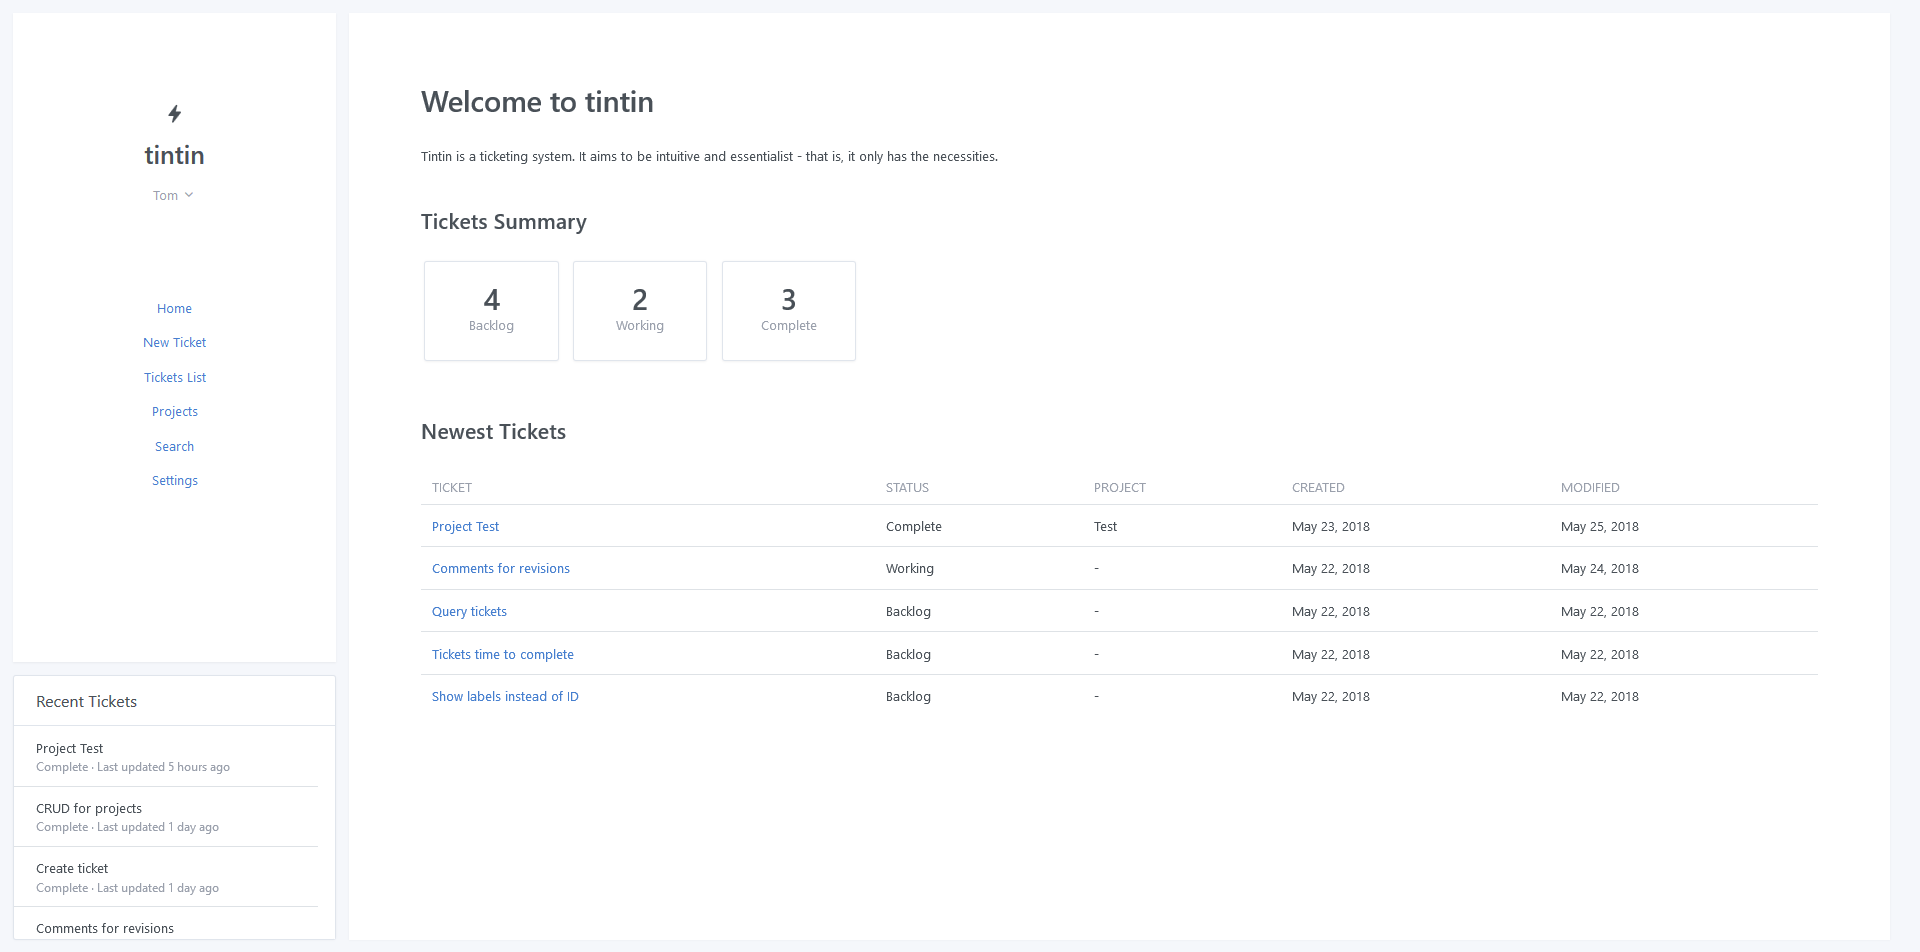
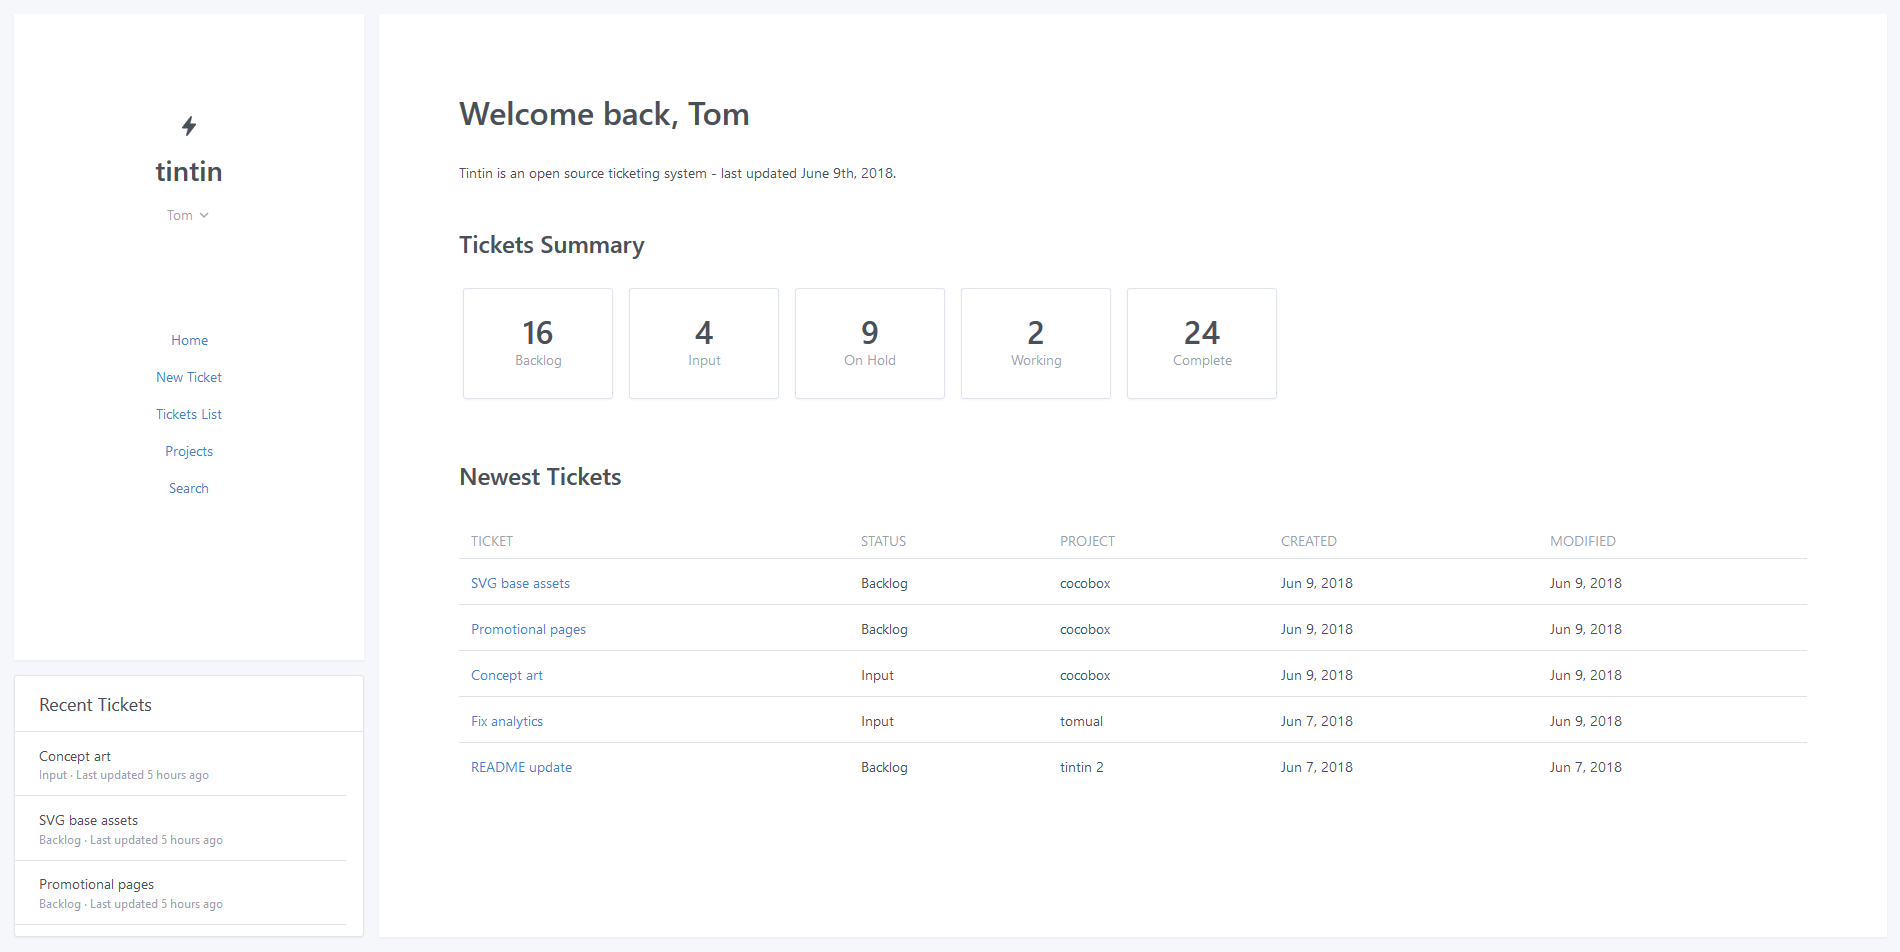
Dashboard and features page

diff --git a/application/views/features.php b/application/views/features.php
@@ -3,69 +3,37 @@
 <p>Here are some of the features of Tintin:</p>
 
 <div class="row gutters-xl features">
-	<div class="col">
+	<div class="col-xl-3 col-lg-6">
 		<i class="text-muted fe fe-home"></i>
-		<h4 class="text-center">Home dashboard</h4>
-		<p>Lorem ipsum dolor sit amet, consectetur adipisicing elit, sed do eiusmod
-		tempor incididunt ut labore et dolore magna aliqua. Ut enim ad minim veniam,
-		quis nostrud exercitation ullamco laboris nisi ut aliquip ex ea commodo
-		consequat. Duis aute irure dolor in reprehenderit in voluptate velit esse
-		cillum dolore eu fugiat nulla pariatur. Excepteur sint occaecat cupidatat non
-		proident, sunt in culpa qui officia deserunt mollit anim id est laborum.</p>
+		<h4 class="text-center">Home Dashboard</h4>
+		<p>Your team's home dashoard gives you a summary of tickets in each status. The dashboard also has a list of the most recently created tickets.</p>
 	</div>
-	<div class="col">
+	<div class="col-xl-3 col-lg-6">
 		<i class="text-muted fe fe-file"></i>
-		<h4 class="text-center">Ticket view tools</h4>
-		<p>Lorem ipsum dolor sit amet, consectetur adipisicing elit, sed do eiusmod
-		tempor incididunt ut labore et dolore magna aliqua. Ut enim ad minim veniam,
-		quis nostrud exercitation ullamco laboris nisi ut aliquip ex ea commodo
-		consequat. Duis aute irure dolor in reprehenderit in voluptate velit esse
-		cillum dolore eu fugiat nulla pariatur. Excepteur sint occaecat cupidatat non
-		proident, sunt in culpa qui officia deserunt mollit anim id est laborum.</p>
+		<h4 class="text-center">Ticket View Tools</h4>
+		<p>On each ticket view is the ticket details, a quick update form and the revision history. The quick update form can be used to add a comment or change status. Changes made to the ticket is reflected in the revision history.</p>
 		</div>
-	<div class="col">
+	<div class="col-xl-3 col-lg-6">
 		<i class="text-muted fe fe-terminal"></i>
-		<h4 class="text-center">Keyboard Shortcut</h4>
-		<p>Lorem ipsum dolor sit amet, consectetur adipisicing elit, sed do eiusmod
-		tempor incididunt ut labore et dolore magna aliqua. Ut enim ad minim veniam,
-		quis nostrud exercitation ullamco laboris nisi ut aliquip ex ea commodo
-		consequat. Duis aute irure dolor in reprehenderit in voluptate velit esse
-		cillum dolore eu fugiat nulla pariatur. Excepteur sint occaecat cupidatat non
-		proident, sunt in culpa qui officia deserunt mollit anim id est laborum.</p>
+		<h4 class="text-center">Keyboard Shortcuts</h4>
+		<p>Press Q and W at any time on Tintin to go to the new ticket page. More keyboard shortcuts will be added soon, such as a quicksearch and shortcuts to various pages.</p>
 	</div>
-</div>
-
-<div class="row gutters-xl features">
-	<div class="col">
+	<div class="col-xl-3 d-lg-none d-xl-block">
+	</div>
+	<div class="col-xl-3 col-lg-6">
 		<i class="text-muted fe fe-package"></i>
 		<h4 class="text-center">Projects</h4>
-		<p>Lorem ipsum dolor sit amet, consectetur adipisicing elit, sed do eiusmod
-		tempor incididunt ut labore et dolore magna aliqua. Ut enim ad minim veniam,
-		quis nostrud exercitation ullamco laboris nisi ut aliquip ex ea commodo
-		consequat. Duis aute irure dolor in reprehenderit in voluptate velit esse
-		cillum dolore eu fugiat nulla pariatur. Excepteur sint occaecat cupidatat non
-		proident, sunt in culpa qui officia deserunt mollit anim id est laborum.</p>
+		<p>Keep track of grouped tickets with projects. Each ticket can be assigned a project, and each project's completion progress can be seen in the projects page. Progress is based on how many tickets in the project have a completed status.</p>
 	</div>
-	<div class="col">
+	<div class="col-xl-3 col-lg-6">
 		<i class="text-muted fe fe-search"></i>
 		<h4 class="text-center">Search</h4>
-		<p>Lorem ipsum dolor sit amet, consectetur adipisicing elit, sed do eiusmod
-		tempor incididunt ut labore et dolore magna aliqua. Ut enim ad minim veniam,
-		quis nostrud exercitation ullamco laboris nisi ut aliquip ex ea commodo
-		consequat. Duis aute irure dolor in reprehenderit in voluptate velit esse
-		cillum dolore eu fugiat nulla pariatur. Excepteur sint occaecat cupidatat non
-		proident, sunt in culpa qui officia deserunt mollit anim id est laborum.</p>
+		<p>Perform queries for tickets through the search page - search by keywords in the title or description, by project, by status, or creation and modification date ranges.</p>
 	</div>
-
-	<div class="col">
+	<div class="col-xl-3 col-lg-6">
 		<i class="text-muted fe fe-thumbs-up"></i>
 		<h4 class="text-center">Updates</h4>
-		<p>Lorem ipsum dolor sit amet, consectetur adipisicing elit, sed do eiusmod
-		tempor incididunt ut labore et dolore magna aliqua. Ut enim ad minim veniam,
-		quis nostrud exercitation ullamco laboris nisi ut aliquip ex ea commodo
-		consequat. Duis aute irure dolor in reprehenderit in voluptate velit esse
-		cillum dolore eu fugiat nulla pariatur. Excepteur sint occaecat cupidatat non
-		proident, sunt in culpa qui officia deserunt mollit anim id est laborum.</p>
+		<p>Tintin is under continuous development, with plenty of new features to come. View progress or make suggestions at the project's Github page.</p>
 	</div>
 </div>
 <?php $this->load->view('footer') ?>

diff --git a/application/views/home.php b/application/views/home.php
@@ -1,6 +1,6 @@
 <?php $this->load->view('header') ?>
-<h1>Welcome to tintin</h1>
-<p>Tintin is a ticketing system. It aims to be intuitive and essentialist - that is, it only has the necessities.</p>
+<h1>Welcome back, <?php echo $this->user->first_name ?></h1>
+<p>Tintin is an open source ticketing system - last updated June 9th, 2018.</p>
 <?php if($summary): ?>
 <h3 class="mt-7">Tickets Summary</h3>
 <div class="row row-cards">
